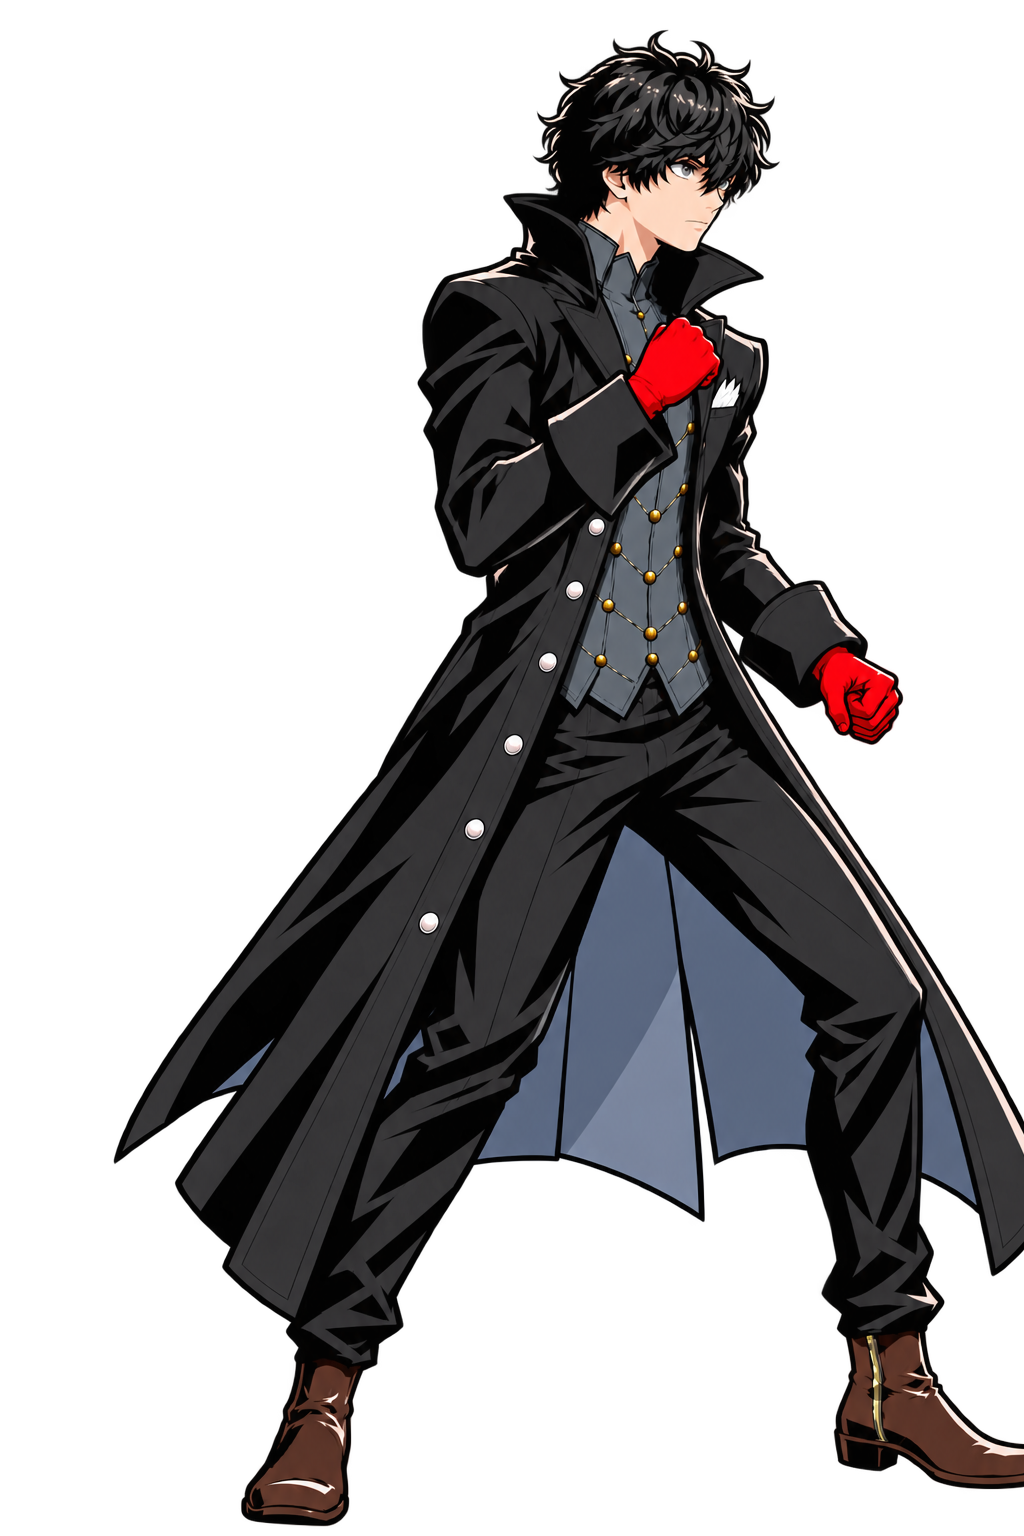
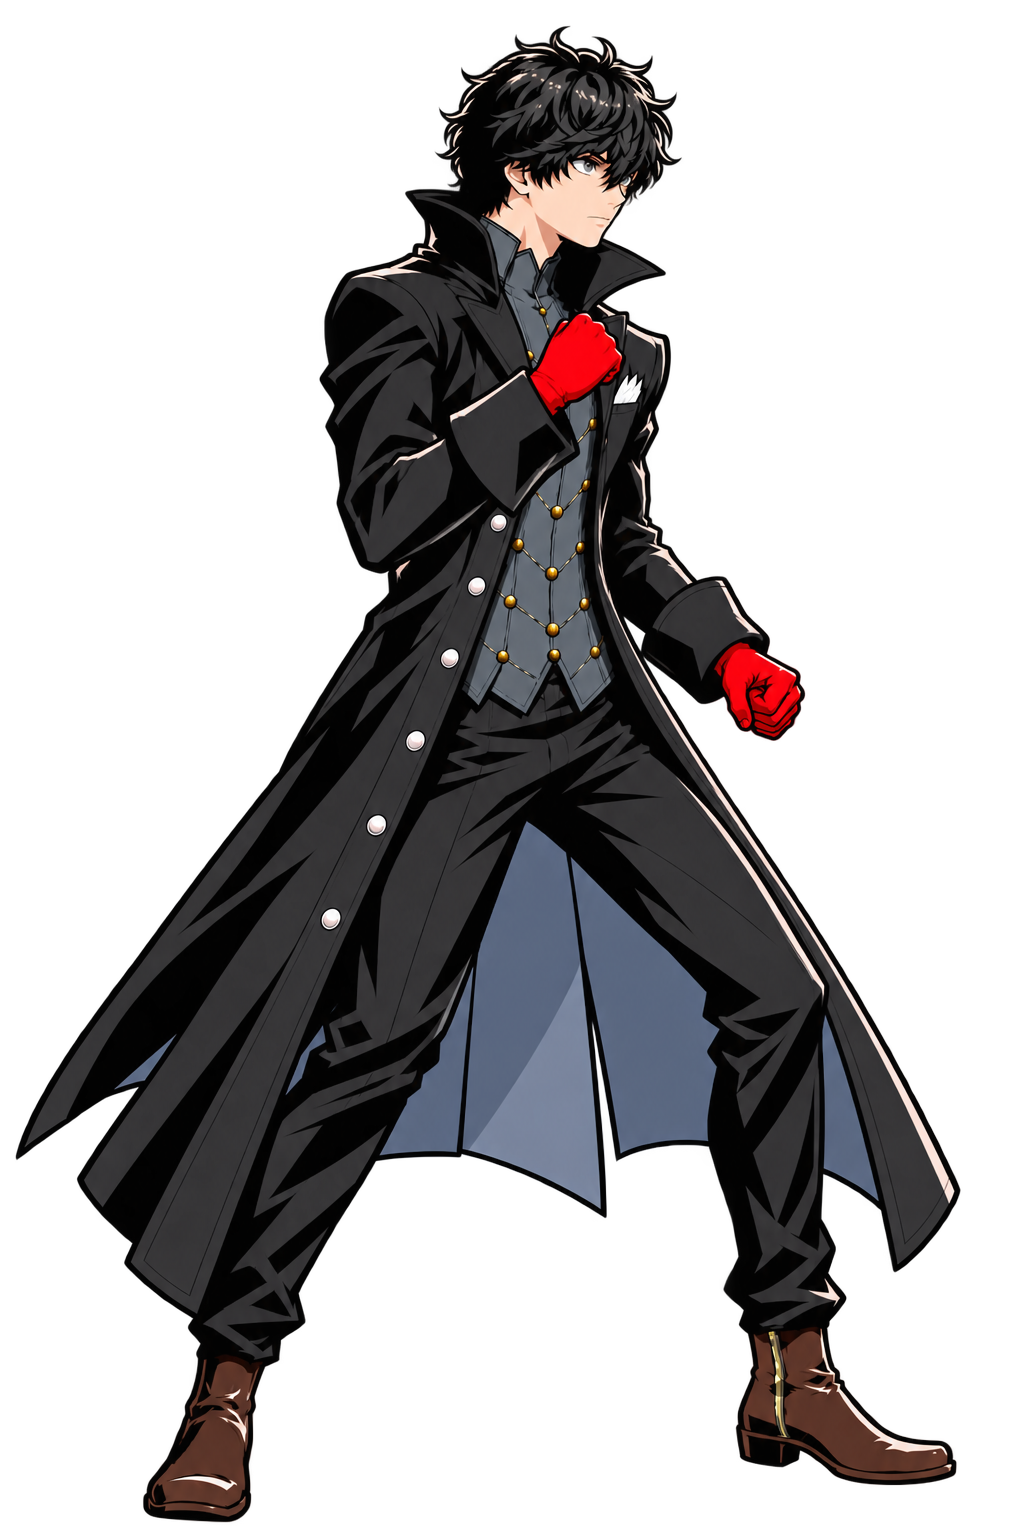
art: P5 guard_mid anchored on the front foot (no forward-back zigzag)
Claude-Session: https://claude.ai/code/session_01Nam5m2bn9ofCCWTGM6fwcN

diff --git a/tools/p5/normalize_poses.py b/tools/p5/normalize_poses.py
@@ -22,7 +22,7 @@ REF = 'idle_a3'
 # automatic head measurement is unreliable because raised black sleeves touch the hair.
 POSES = {'idle_a3': (1.0, 'rear'), 'guard_a2': (0.95, 'front'), 'knife_ready_a': (0.96, 'rear'),
          'slash_a3': (0.96, 'mid'), 'slash_follow_a': (0.96, 'mid'),
-         'slash_mid_a': (0.96, 'mid'), 'slash_smear_a3': (0.96, 'mid'), 'guard_mid_a': (1.0, 'rear')}
+         'slash_mid_a': (0.96, 'mid'), 'slash_smear_a3': (0.96, 'mid'), 'guard_mid_a': (1.0, 'front')}
 
 
 def load(n):
